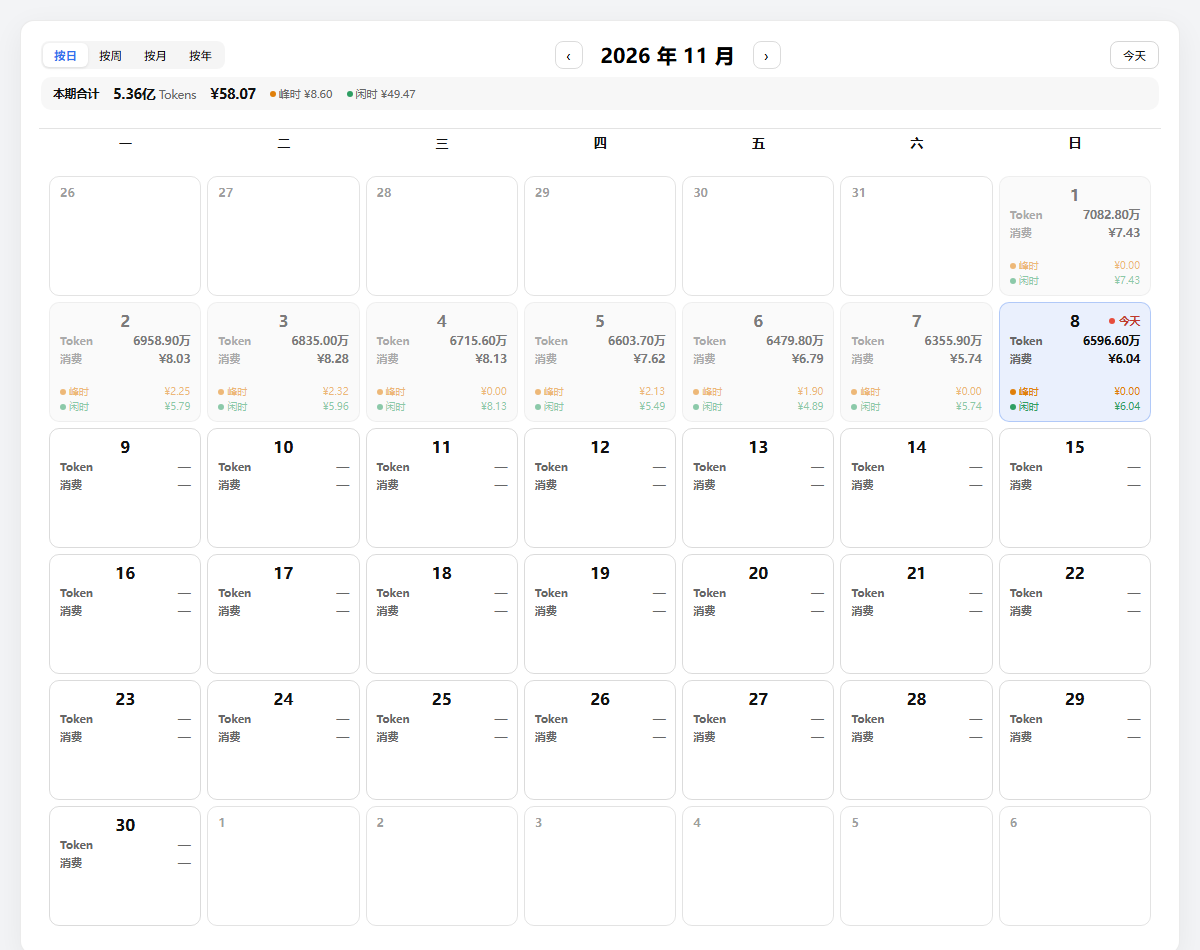
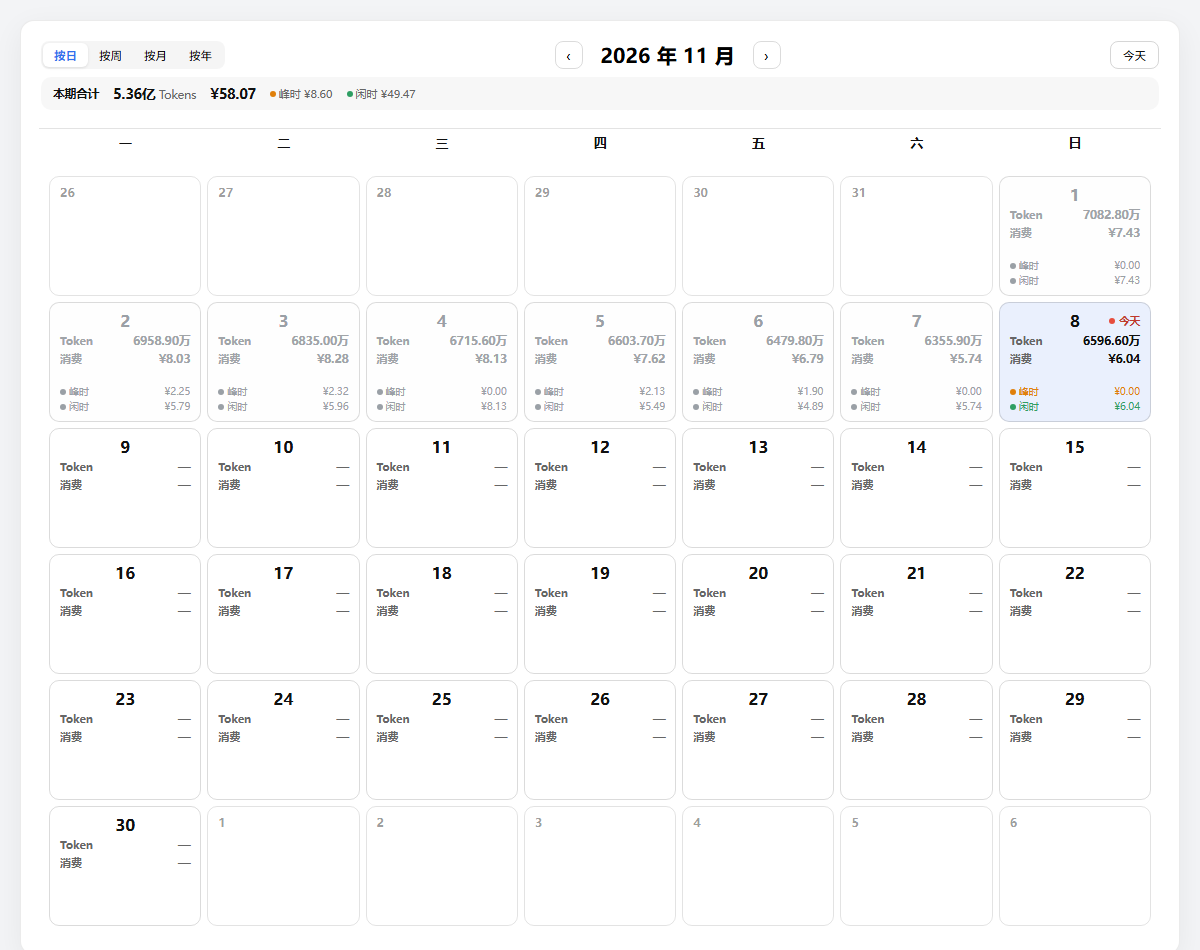
style(calendar): idle cells use explicit light-gray text instead of opacity fade

diff --git a/client.js b/client.js
@@ -1839,13 +1839,13 @@ function closeIcon(size = 14) {
         h('i', { style: { width: 6, height: 6, borderRadius: '50%', background: color, display: 'inline-block', flex: '0 0 auto' } }),
         label + ' ' + money2(value));
 
-      const splitRow = (label, value, color, size) => h('div', {
+      const splitRow = (label, value, color, size, dimmed) => h('div', {
         style: { display: 'flex', alignItems: 'center', justifyContent: 'space-between', gap: 6, minWidth: 0 },
       },
-        h('span', { style: { display: 'inline-flex', alignItems: 'center', gap: 3, fontSize: size, color: color, whiteSpace: 'nowrap', fontWeight: 400 } },
-          h('i', { style: { width: 6, height: 6, borderRadius: '50%', background: color, display: 'inline-block', flex: '0 0 auto' } }),
+        h('span', { style: { display: 'inline-flex', alignItems: 'center', gap: 3, fontSize: size, color: dimmed ? '#9aa0a6' : color, whiteSpace: 'nowrap', fontWeight: 400 } },
+          h('i', { style: { width: 6, height: 6, borderRadius: '50%', background: dimmed ? '#9aa0a6' : color, display: 'inline-block', flex: '0 0 auto' } }),
           label),
-        h('span', { style: { fontSize: size, color: color, fontVariantNumeric: 'tabular-nums', whiteSpace: 'nowrap', fontWeight: 400 } }, money2(value)));
+        h('span', { style: { fontSize: size, color: dimmed ? '#9aa0a6' : color, fontVariantNumeric: 'tabular-nums', whiteSpace: 'nowrap', fontWeight: 400 } }, money2(value)));
 
       const cellCard = (cell, variant) => {
         const isToday = cell.isToday === true || cell.key === todayKey;
@@ -1875,7 +1875,7 @@ function closeIcon(size = 14) {
             borderRadius: 10,
             border: '1px solid ' + (idleCell ? 'rgba(0,0,0,.09)' : interactiveCell ? 'rgba(47,111,237,.30)' : 'rgba(0,0,0,.14)'),
             background: idleCell ? 'rgba(0,0,0,.03)' : interactiveCell && !isToday ? 'rgba(47,111,237,.10)' : heat,
-            opacity: idleCell ? 0.55 : 1,
+            opacity: 1,
             boxShadow: hoverKey === cell.key ? '0 6px 16px rgba(0,0,0,.10)' : 'none',
             transform: hoverKey === cell.key ? 'translateY(-1px)' : 'none',
             transition: 'box-shadow .14s ease, transform .14s ease, border-color .14s ease, background .14s ease, opacity .14s ease',
@@ -1892,7 +1892,7 @@ function closeIcon(size = 14) {
                   alignItems: 'baseline', justifyContent: 'center', gap: dim === 'week' ? 1 : 4, minWidth: 0, textAlign: 'center',
                 },
               },
-                h('span', { style: { fontSize: big ? 17 : mini ? 13 : 16, fontWeight: big ? 700 : 600, color: dim === 'week' && !isToday ? MUTED : 'var(--dsw-alias-label-primary, #111)', whiteSpace: 'nowrap', textAlign: 'center' } }, cell.label),
+                h('span', { style: { fontSize: big ? 17 : mini ? 13 : 16, fontWeight: big ? 700 : 600, color: idleCell ? '#9aa0a6' : 'var(--dsw-alias-label-primary, #111)', whiteSpace: 'nowrap', textAlign: 'center' } }, cell.label),
                 isToday
                   ? h('span', {
                       style: {
@@ -1903,20 +1903,20 @@ function closeIcon(size = 14) {
                       h('i', { className: 'pb-today-badge', style: { width: 6, height: 6, borderRadius: '50%', background: '#e74c3c', display: 'inline-block' } }),
                       dim === 'day' ? '今天' : dim === 'week' ? '本周' : dim === 'month' ? '本月' : '今年')
                   : (cell.sub
-                      ? h('span', { style: { fontSize: mini ? 8.5 : 9.5, color: MUTED, whiteSpace: 'nowrap', textAlign: 'center' } }, cell.sub)
+                      ? h('span', { style: { fontSize: mini ? 8.5 : 9.5, color: idleCell ? '#a0a4a8' : MUTED, whiteSpace: 'nowrap', textAlign: 'center' } }, cell.sub)
                       : null))
             : null,
           h('div', { style: { display: 'flex', alignItems: 'baseline', gap: 4, minWidth: 0 } },
-            h('span', { style: { fontSize: big ? 11 : mini ? 9.5 : 11, color: MUTED, whiteSpace: 'nowrap', flex: '0 0 auto', fontWeight: 700 } }, 'Token'),
-            h('span', { style: { fontSize: big ? 12 : mini ? 9.5 : 11.5, fontWeight: 700, fontVariantNumeric: 'tabular-nums', color: empty ? MUTED : 'var(--dsw-alias-label-primary, #111)', lineHeight: 1.2, marginLeft: 'auto', whiteSpace: 'nowrap' } },
+            h('span', { style: { fontSize: big ? 11 : mini ? 9.5 : 11, color: idleCell ? '#a0a4a8' : MUTED, whiteSpace: 'nowrap', flex: '0 0 auto', fontWeight: 700 } }, 'Token'),
+            h('span', { style: { fontSize: big ? 12 : mini ? 9.5 : 11.5, fontWeight: 700, fontVariantNumeric: 'tabular-nums', color: idleCell ? '#a0a4a8' : empty ? MUTED : 'var(--dsw-alias-label-primary, #111)', lineHeight: 1.2, marginLeft: 'auto', whiteSpace: 'nowrap' } },
               empty ? '—' : fmtNumberCn(cell.tokens))),
           h('div', { style: { display: 'flex', alignItems: 'baseline', gap: 4, minWidth: 0 } },
-            h('span', { style: { fontSize: big ? 11 : mini ? 9.5 : 11, color: MUTED, whiteSpace: 'nowrap', flex: '0 0 auto', fontWeight: 700 } }, '消费'),
-            h('span', { style: { fontSize: big ? 12 : mini ? 9.5 : 11.5, fontWeight: 700, fontVariantNumeric: 'tabular-nums', color: empty ? MUTED : 'var(--dsw-alias-label-primary, #111)', marginLeft: 'auto', whiteSpace: 'nowrap' } },
+            h('span', { style: { fontSize: big ? 11 : mini ? 9.5 : 11, color: idleCell ? '#a0a4a8' : MUTED, whiteSpace: 'nowrap', flex: '0 0 auto', fontWeight: 700 } }, '消费'),
+            h('span', { style: { fontSize: big ? 12 : mini ? 9.5 : 11.5, fontWeight: 700, fontVariantNumeric: 'tabular-nums', color: idleCell ? '#a0a4a8' : empty ? MUTED : 'var(--dsw-alias-label-primary, #111)', marginLeft: 'auto', whiteSpace: 'nowrap' } },
               empty ? '—' : money2(cell.cost))),
           empty ? null : h('div', { style: { display: 'flex', flexDirection: 'column', gap: 2, marginTop: 'auto' } },
-            splitRow('峰时', cell.peakCost, PEAK_COLOR, big ? 10.5 : mini ? 9.5 : 10),
-            splitRow('闲时', cell.offPeakCost, OFF_COLOR, big ? 10.5 : mini ? 9.5 : 10)));
+            splitRow('峰时', cell.peakCost, PEAK_COLOR, big ? 10.5 : mini ? 9.5 : 10, idleCell),
+            splitRow('闲时', cell.offPeakCost, OFF_COLOR, big ? 10.5 : mini ? 9.5 : 10, idleCell)));
       };
 
       const emptyTile = (key, height) => h('div', { key, style: { height, boxSizing: 'border-box', borderRadius: 10, background: 'transparent', border: '1px dashed rgba(0,0,0,.16)' } });
